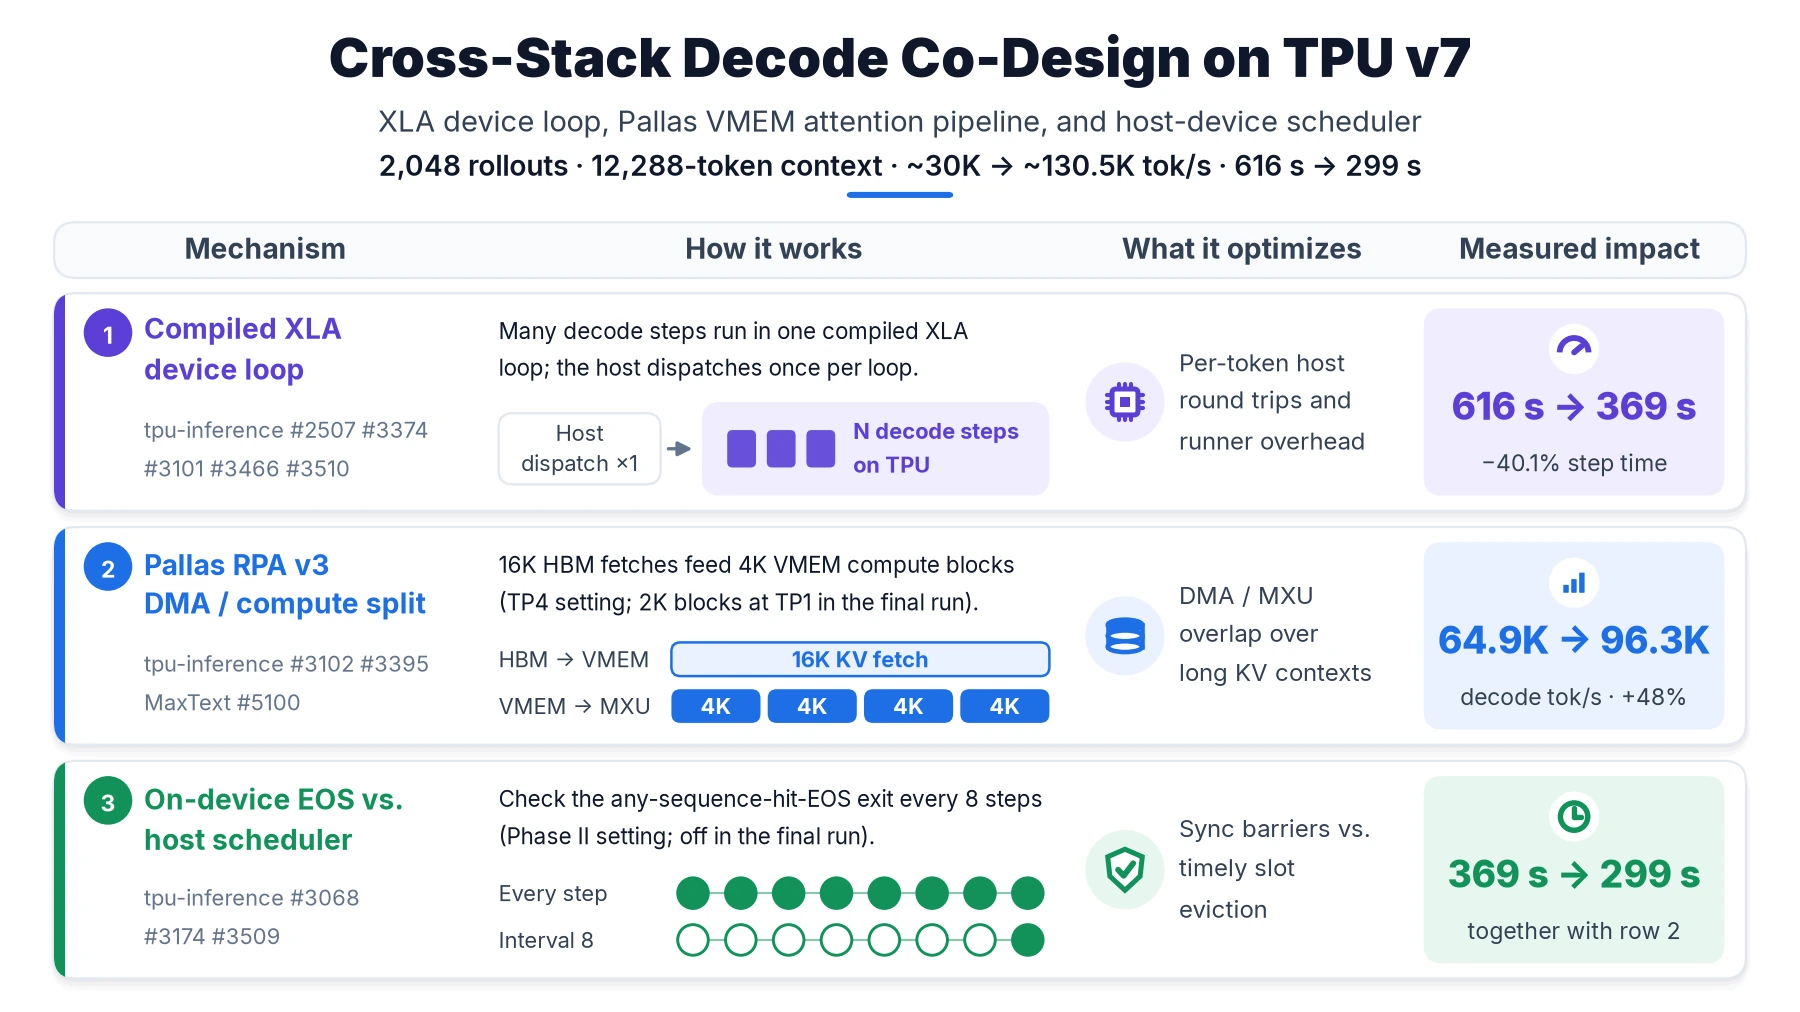
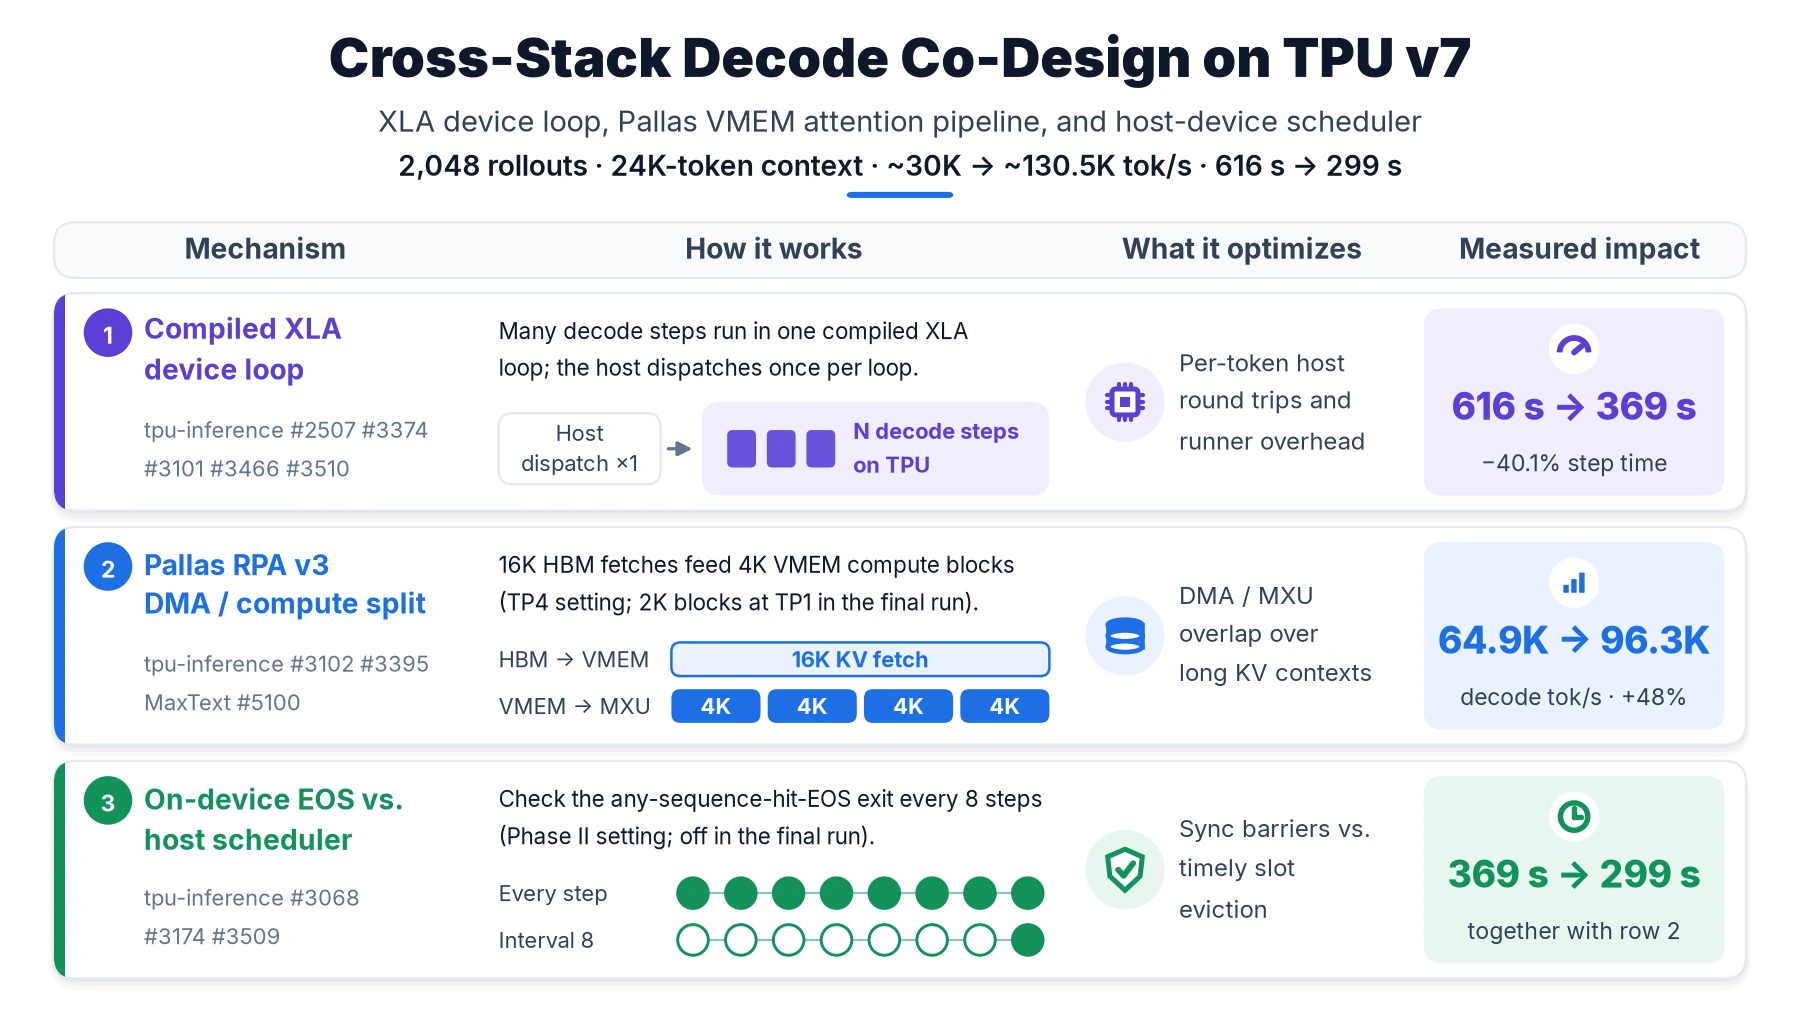
Address review round 2: workload contract per phase, 299 -> 88 s rollout changes
- Benchmark methodology: milestones up to 299 s ran with a 16K prompt
  cap (24K context) on NuminaMath + OpenMath prompts; from 88 s on, runs
  use OpenMathInstruct-2 with a 4K prompt cap (12,288 context). Same
  model, recipe, completions per step, and 8,192-token response cap;
  real prompts are short in both. Phase I/II text says 24K again.
- 299 -> 88 s: name the rollout-side changes (continuous-batching decode
  window, vocab-sharded sampling) and the ~30 s serial reward scoring
  moved to a process pool; per-change contributions not isolated.
- Figures: Figure 3 subtitle uses the 24K context; Figure 4 marks the
  prompt-cap change; Figure 5 footnote notes it; 88 s bar relabeled.

Changed region(s): [[0.2178, 0.1532, 0.7778, 0.1838]]

diff --git a/_posts/2026-11-12-rl-small-dense-tpu-v7.md b/_posts/2026-11-12-rl-small-dense-tpu-v7.md
@@ -75,13 +75,13 @@ The lesson was simple: peak small-model RL performance on TPU v7 comes from pres
 
 ## Benchmark methodology and dataset
 
-Because proprietary Ads ranking and generative recommendation (GR) models and user-interaction logs at Meta cannot be shared publicly, we designed **a fully open, reproducible benchmark proxy**—using Qwen3-0.6B on [OpenMathInstruct-2](https://huggingface.co/datasets/nvidia/OpenMathInstruct-2) (`train_1M` split)—that mirrors the systems geometry of production generative ranking: a compact sub-billion-parameter dense policy generating long multi-step reasoning traces (up to 8,192 tokens) across thousands of concurrent candidates.
+Because proprietary Ads ranking and generative recommendation (GR) models and user-interaction logs at Meta cannot be shared publicly, we designed **a fully open, reproducible benchmark proxy**—using Qwen3-0.6B on public math reasoning prompts—that mirrors the systems geometry of production generative ranking: a compact sub-billion-parameter dense policy generating long multi-step reasoning traces (up to 8,192 tokens) across thousands of concurrent candidates.
 
-To make our workload contract, profiler methodology, and all **23** upstream vLLM, Tunix, and MaxText **PRs** **fully reproducible by the open-source community**, we evaluate both controlled ablations and our headline Qwen3-0.6B Group Relative Policy Optimization (GRPO) true-8K workload: 256 prompts × 8 generations (2,048 completions per rollout), prompts up to 4,096 tokens and up to 8,192 generated tokens (12,288-token context), BF16, and synchronous on-policy execution. We report steady-state complete-cycle wall-clock time, excluding compilation, warmup, and checkpoint writes. We tracked rollout throughput and full-cycle latency across the campaign, then used controlled ablations to isolate individual mechanisms.
+To make our workload contract, profiler methodology, and all **23** upstream vLLM, Tunix, and MaxText **PRs** **fully reproducible by the open-source community**, we evaluate both controlled ablations and our headline Qwen3-0.6B Group Relative Policy Optimization (GRPO) true-8K workload: 256 prompts × 8 generations (2,048 completions per rollout), up to 8,192 generated tokens, BF16, and synchronous on-policy execution. The bring-up and Phase I–II milestones (up to 299 s) ran with a 16,384-token prompt cap (24K maximum context) on NuminaMath and OpenMath prompts. From the 88-second milestone on, runs use [OpenMathInstruct-2](https://huggingface.co/datasets/nvidia/OpenMathInstruct-2) (`train_1M`) with a 4,096-token prompt cap (12,288-token context). Model, GRPO recipe, completions per step, and the 8,192-token response cap are identical, and real prompts are short in both (~170 tokens for NuminaMath, 149 tokens on average for OpenMathInstruct-2), so the generated work per step is comparable; the larger prompt cap mainly reserves more KV capacity per sequence. We report steady-state complete-cycle wall-clock time, excluding compilation, warmup, and checkpoint writes. We tracked rollout throughput and full-cycle latency across the campaign, then used controlled ablations to isolate individual mechanisms.
 
 **Metric definitions.** *Step time* is the steady-state wall-clock time of one complete rollout-to-update cycle (TensorBoard `perf/train/global_step_time`, median over steps 3 and later of a 20-step run); for the final configuration the headline 56 s is its fastest steady-state steps (p10 55.7 s), next to the 57.9 s median. *Decode throughput (tokens/s)* counts generated (completion) tokens only, excludes prefill, and is aggregated over the whole 64-chip slice. For the milestones up to 299 seconds it is the full-batch decode rate measured in controlled runs. For the 88-second milestone and the final configuration it is the generated tokens of one rollout divided by the whole rollout phase (~9.2M tokens in 68 s; ~9.0M tokens in 49.1 s), which includes the low-occupancy tail and is therefore a conservative lower bound on the full-batch rate.
 
-**Milestones at a glance.** Rollout dominated every step. Up to the 299-second milestone it took 80–90% of the step, so those rows give approximate (~) phase times; the 88-second and final splits are measured from per-phase step timers.
+**Milestones at a glance.** Rollout dominated every step. Up to the 299-second milestone it took 80–90% of the step, so those rows give approximate (~) phase times; the 88-second and final splits are measured from per-phase step timers. Rows up to 299 s used the 16K-prompt-cap contract; the 88-second and final rows use the 4K-prompt-cap contract (see Benchmark methodology).
 
 | Milestone | Step time | Decode throughput | Rollout | Everything else |
 |---|---|---|---|---|
@@ -90,7 +90,7 @@ To make our workload contract, profiler methodology, and all **23** upstream vLL
 | Controlled baseline (colocated, TP/DP rebalanced) | 616 s | ~30K tok/s | ~525 s | ~90 s |
 | + Continue Decode | 369 s | ~64.9K tok/s | ~315 s | ~55 s |
 | + RPA block split + EOS-check interval | 299 s | ~130.5K tok/s | ~255 s | ~45 s |
-| + Sequence packing, reward pool, GC, decode-path fixes | 88 s | ~135K tok/s | 68 s | 20 s (training 8 s, weight sync 7 s) |
+| + Continuous-batching decode, sharded sampling, reward pool, packing | 88 s | ~135K tok/s | 68 s | 20 s (training 8 s, weight sync 7 s) |
 | Final configuration (TP1×DP128) | **56 s** fastest steady-state steps (p10 55.7 s); 57.9 s 20-step median | **~183K tok/s** | 49.1 s | 8.4 s |
 
 In the final configuration a rollout generates about 9.0M tokens (2,048 completions × ~4.4K mean completion length; 27.8% of completions reach the 8,192-token cap), and the median phase times are 49.1 s of rollout and 8.4 s for training, weight sync, reward, and cache lifecycle combined (85% rollout).
@@ -112,7 +112,7 @@ All milestones below reflect steady-state steps. To isolate sub-second kernel an
 
 ### Phase I: align basic workload configuration to establish a proper baseline
 
-Our initial un-tuned functional bring-up—running 2,048 synchronous 12K-context rollouts before mesh sizing or continuous device-side decode—generated roughly 4K rollout tokens/s (~100 minutes per full RL cycle). Before modifying any core runtime or kernel code, we tuned the configuration space of the existing stack.
+Our initial un-tuned functional bring-up—running 2,048 synchronous 24K-context rollouts before mesh sizing or continuous device-side decode—generated roughly 4K rollout tokens/s (~100 minutes per full RL cycle). Before modifying any core runtime or kernel code, we tuned the configuration space of the existing stack.
 
 The work included:
 
@@ -126,19 +126,19 @@ The work included:
 
 This first phase increased decode throughput from roughly **4K to approximately 30K tokens/s** (**7.5x**), reducing the full cycle from **~100 minutes (6,000 s) to 21 minutes (1,260 s, 4.8x)**—and after colocation and TP/DP host-mesh rebalancing established our **616-second controlled baseline**, we moved into stack co-design.
 
-These initial steps simply aligned basic configuration parameters—mesh topology, batch concurrency, and HBM limits—with a 12K-context, 2,048-rollout workload shape (rather than reflecting an out-of-the-box limitation of the TPU v7 stack), establishing a properly configured baseline and revealing the true runtime bottlenecks.
+These initial steps simply aligned basic configuration parameters—mesh topology, batch concurrency, and HBM limits—with a 24K-context, 2,048-rollout workload shape (rather than reflecting an out-of-the-box limitation of the TPU v7 stack), establishing a properly configured baseline and revealing the true runtime bottlenecks.
 
 Decode throughput improved much more than full-cycle latency: the full-batch decode rate is only part of rollout time, and prefill, host returns, and the low-occupancy tail of long completions did not speed up with it. The system had not stopped scaling; the critical path had moved into how rollout used the hardware.
 
 ### Phase II: Cross-stack decode co-design—from MaxText and vLLM down to XLA and Pallas
 
-At approximately 30K tokens/s, surface-level configuration sweeps hit a wall. Profiling revealed that while pure TPU v7 silicon execution took only milliseconds per decode step, end-to-end rollout time was dominated by host-device dispatch round trips, XLA compilation and runner overheads on the Flax NNX path, and Pallas kernel pipeline stalls over 12K-token contexts.
+At approximately 30K tokens/s, surface-level configuration sweeps hit a wall. Profiling revealed that while pure TPU v7 silicon execution took only milliseconds per decode step, end-to-end rollout time was dominated by host-device dispatch round trips, XLA compilation and runner overheads on the Flax NNX path, and Pallas kernel pipeline stalls over 24K-token contexts.
 
 Fixing this required co-designing across every layer of the open-source stack—plumbing workload-aware execution semantics from the top-level trainer down into compiled XLA loops and Pallas VMEM pipelines:
 
 **MaxText → Tunix → vLLM/tpu-inference (Runner & Scheduler) → Ragged Paged Attention (RPA v3)/Pallas → Pathways/XLA**
 
-This phase raised stable production-scale decode throughput (attending over up to 12,288 context tokens per sequence across 2,048 synchronous rollouts) to approximately **130.5K tokens/s** (**4.35x** the 30K operating point), cutting full-step latency in the controlled ladder from **616 seconds to 299 seconds**.
+This phase raised stable production-scale decode throughput (attending over up to 24K context tokens per sequence across 2,048 synchronous rollouts) to approximately **130.5K tokens/s** (**4.35x** the 30K operating point), cutting full-step latency in the controlled ladder from **616 seconds to 299 seconds**.
 
 #### Compiling multi-step device decode loops across Flax NNX, vLLM, and XLA
 
@@ -150,9 +150,9 @@ In the controlled MaxText production ladder, this cross-stack path reduced a **6
 
 This result changed how we thought about the workload. The TPU v7 MXUs were not waiting for more arithmetic intensity from a larger model; the small model was waiting for the runtime and compiler stack to deliver uninterrupted device work.
 
-#### Co-designing Pallas RPA v3 DMA-compute pipelining for long-context KV caches
+#### Co-designing Pallas RPA v3 DMA-compute pipelining for 24K-context KV caches
 
-Once host dispatch was amortized, on-device attention memory movement became the primary bottleneck. Ragged Paged Attention v3 (RPA v3), written in Pallas, overlaps HBM-to-VMEM DMA transfers with TensorCore compute using a double-buffered VMEM pipeline. However, its default heuristic coupled the KV fetch block size and the compute block size to a single monolithic value (~16K tokens). On our long-context RL workload, a 16K compute block starved the Pallas double-buffered pipeline: each compute stage had to wait for a large KV tile transfer to complete, reducing pipeline depth between DMA and MXU execution.
+Once host dispatch was amortized, on-device attention memory movement became the primary bottleneck. Ragged Paged Attention v3 (RPA v3), written in Pallas, overlaps HBM-to-VMEM DMA transfers with TensorCore compute using a double-buffered VMEM pipeline. However, its default heuristic coupled the KV fetch block size and the compute block size to a single monolithic value (~16K tokens). On our 24K-context RL workload, a 16K compute block starved the Pallas double-buffered pipeline: each compute stage had to wait for a large KV tile transfer to complete, reducing pipeline depth between DMA and MXU execution.
 
 We refactored the kernel interface to decouple HBM fetch geometry from VMEM compute tiling across decode, prefill, and mixed paths ([tpu-inference #3102](https://github.com/vllm-project/tpu-inference/pull/3102)) and plumbed those kernel controls up through the tpu-inference MaxText serving bridge ([tpu-inference #3395](https://github.com/vllm-project/tpu-inference/pull/3395)) and MaxText RL trainer configs ([MaxText #5100](https://github.com/AI-Hypercomputer/maxtext/pull/5100)). Keeping a **16,384-token HBM fetch block** to maximize burst DMA bandwidth while slicing execution into **4,096-token VMEM compute blocks** restored deep DMA/MXU overlap—lifting decode throughput from **64.9K → 96.3K tokens/s** (64,929 → 96,273 tokens/s, **+48% decode throughput**).
 
@@ -175,14 +175,14 @@ In the final configuration we turn the in-loop EOS check off entirely (`CONTINUE
 </p>
 
 <p align="center">
-<em>Figure 3: Cross-stack decode co-design across vLLM, XLA, and Pallas. Three co-designed mechanisms across the runtime/compiler, attention kernel, and device-scheduler boundary that lifted decode throughput from 30K to 130.5K tokens/s (616 s → 299 s full step). The RPA split and the EOS-check interval together took the step from 369 s to 299 s.</em>
+<em>Figure 3: Cross-stack decode co-design across vLLM, XLA, and Pallas. Three co-designed mechanisms across the runtime/compiler, attention kernel, and device-scheduler boundary that lifted decode throughput from 30K to 130.5K tokens/s on the 24K-context bring-up workload (616 s → 299 s full step). The RPA split and the EOS-check interval together took the step from 369 s to 299 s.</em>
 </p>
 
 ### Phase III: optimize the whole RL cycle, not only decode
 
 Once decode reached 130.5K tokens/s, the full-batch decode rate was no longer the limit: most of the 299-second step was still rollout, stretched by its low-occupancy tail, and the rest went to KV-cache reallocation and weight synchronization, host-side reward/detokenization/GC overhead, and the training attention kernel.
 
-Phase III had two stages. Sequence packing, process-pool reward scoring, configurable garbage collection, and continue-decode masking and padding fixes took the step from 299 seconds to **88 seconds** by late August (rollout 68 s, training 8 s, weight sync 7 s). KV persistence, faster weight synchronization and detokenization, the Splash Attention retune, and the final rollout configuration then took it from 88 seconds to **56 seconds**.
+Phase III had two stages. The first took the step from 299 seconds to **88 seconds** by late August (rollout 68 s, training 8 s, weight sync 7 s). On the rollout side, a continuous-batching decode window kept the fused loop full by retiring finished sequences as inert masked slots instead of exiting on EOS, and vocab-sharded sampling removed a full-vocabulary logits all-gather (~78 MB per data-parallel rank) and the top-k/top-p sweeps from every decode iteration. Off the rollout path, serial reward scoring, measured at ~30 s per step, moved to a process pool, and sequence packing and configurable garbage collection shortened training and host time. Per-change contributions within this stage were not isolated. The move to the 4K prompt cap also happened here (see Benchmark methodology). KV persistence, faster weight synchronization and detokenization, the Splash Attention retune, and the final rollout configuration then took it from 88 seconds to **56 seconds**.
 
 #### Separating logical cache invalidation from physical allocation
 
@@ -226,7 +226,7 @@ The last gains, from 88 seconds to 56 seconds, came from fine-grained tuning, ag
 </p>
 
 <p align="center">
-<em>Figure 4: Bottleneck migration. Steady-state step time per milestone (log scale, excluding compilation and checkpointing), with the rollout share of each step shown under its bar. Up to 299 s, rollout took 80–90% of the step (~85% shown); the 88 s and final splits are measured (68 s of 88 s; 49.1 s + 8.4 s medians). 56 s is the fastest steady-state step time (p10 55.7 s); the 20-step median is 57.9 s.</em>
+<em>Figure 4: Bottleneck migration. Steady-state step time per milestone (log scale, excluding compilation and checkpointing), with the rollout share of each step shown under its bar; the dashed line marks the move from the 16K to the 4K prompt cap. Up to 299 s, rollout took 80–90% of the step (~85% shown); the 88 s and final splits are measured (68 s of 88 s; 49.1 s + 8.4 s medians). 56 s is the fastest steady-state step time (p10 55.7 s); the 20-step median is 57.9 s.</em>
 </p>
 
 ## What did not work—and why those learnings mattered
